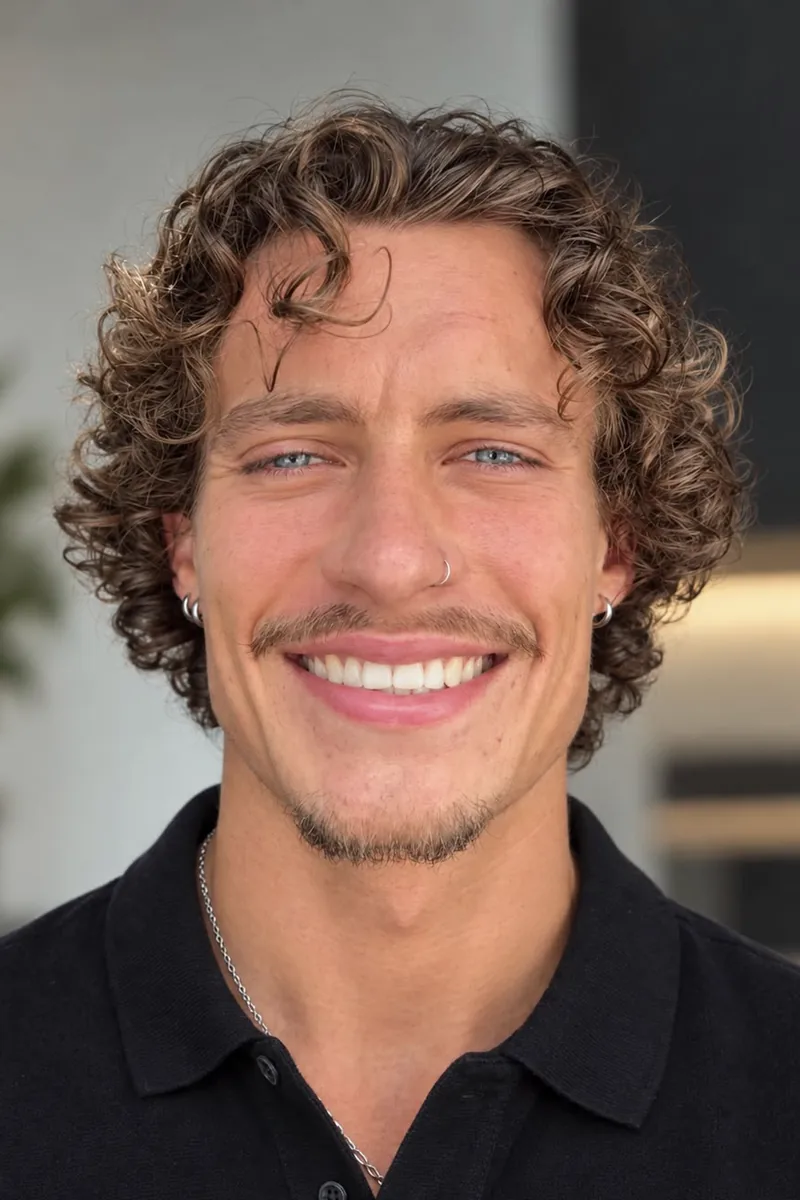
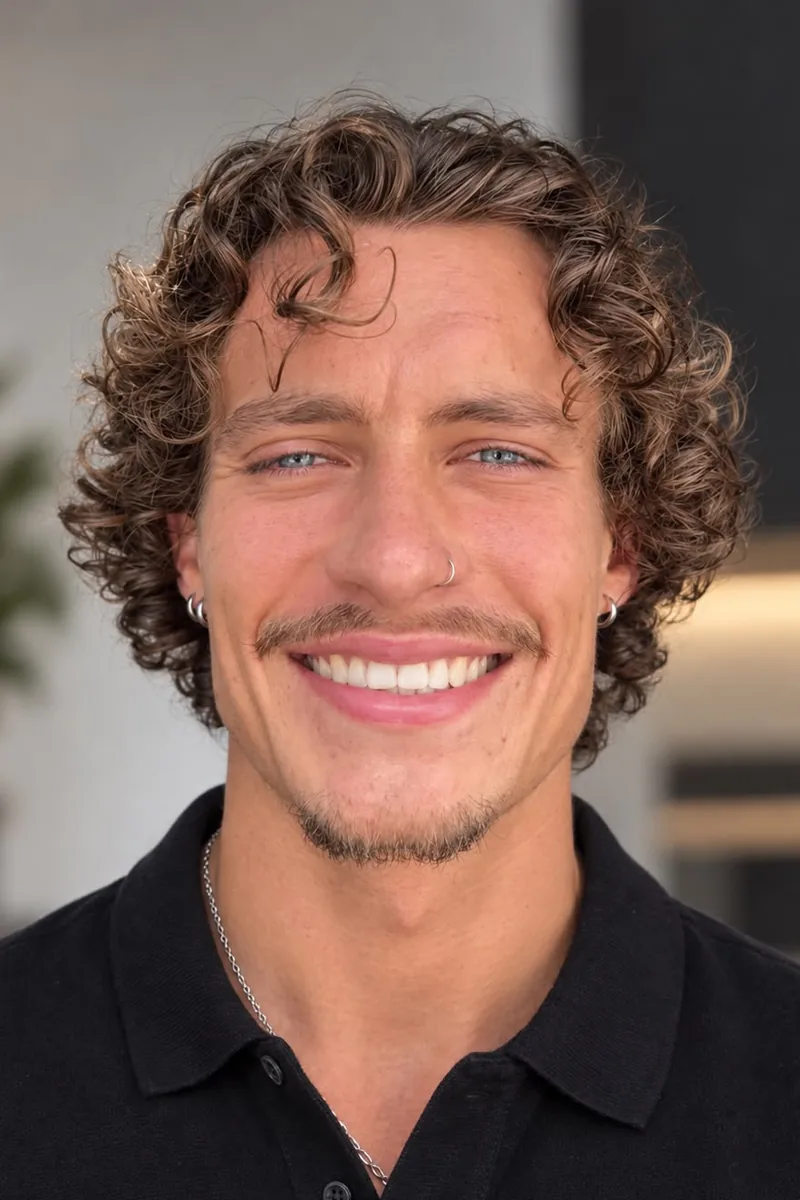
Coachs : nouvelle photo de Damien, les deux portraits recadres avec le meme rectangle ; ancienne gardee en coach-damien-v1.webp

diff --git a/qui-sommes-nous.html b/qui-sommes-nous.html
@@ -29,7 +29,7 @@
   ]
 }
 </script>
-<link rel="stylesheet" href="assets/site.css?v=2709ze">
+<link rel="stylesheet" href="assets/site.css?v=2709zf">
 </head>
 <body>
 
@@ -94,7 +94,7 @@
 
         <!-- COACH 1 -->
         <article class="coach reveal">
-          <div class="ph photo"><span class="fr tl"></span><span class="fr tr"></span><span class="scanline"></span><span class="ghost">D</span><span class="tagph">Photo à venir</span><img src="assets/coach-damien.webp" alt="Damien, coach Elysium" width="800" height="1200" loading="lazy" decoding="async"></div>
+          <div class="ph photo"><span class="fr tl"></span><span class="fr tr"></span><span class="scanline"></span><span class="ghost">D</span><span class="tagph">Photo à venir</span><img src="assets/coach-damien.webp?v=2" alt="Damien, coach Elysium" width="800" height="1200" loading="lazy" decoding="async"></div>
           <div class="body">
             <span class="role">Coach nutrition</span>
             <h3>Damien</h3>
@@ -106,7 +106,7 @@
 
         <!-- COACH 2 -->
         <article class="coach reveal d1">
-          <div class="ph photo"><span class="fr tl"></span><span class="fr tr"></span><span class="scanline"></span><span class="ghost">Y</span><span class="tagph">Photo à venir</span><img src="assets/coach-yoann.webp?v=2" alt="Yoann, coach Elysium" width="800" height="1200" loading="lazy" decoding="async"></div>
+          <div class="ph photo"><span class="fr tl"></span><span class="fr tr"></span><span class="scanline"></span><span class="ghost">Y</span><span class="tagph">Photo à venir</span><img src="assets/coach-yoann.webp?v=3" alt="Yoann, coach Elysium" width="800" height="1200" loading="lazy" decoding="async"></div>
           <div class="body">
             <span class="role">Coach nutrition</span>
             <h3>Yoann</h3>
@@ -164,6 +164,6 @@
   <div class="foot-legal">© 2026 SAS Elysium · Nutrition &amp; Performance · Protocole v.2026</div>
 </footer>
 
-<script src="assets/site.js?v=2709ze"></script>
+<script src="assets/site.js?v=2709zf"></script>
 </body>
 </html>
